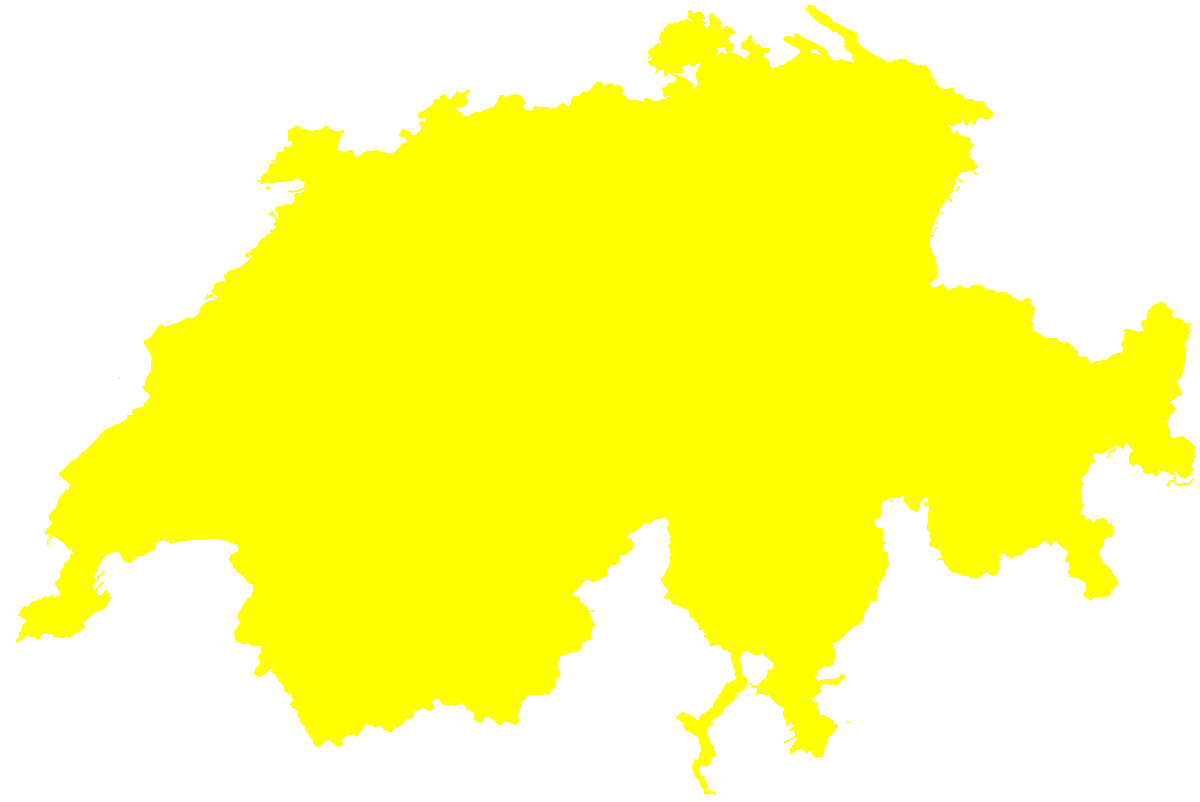
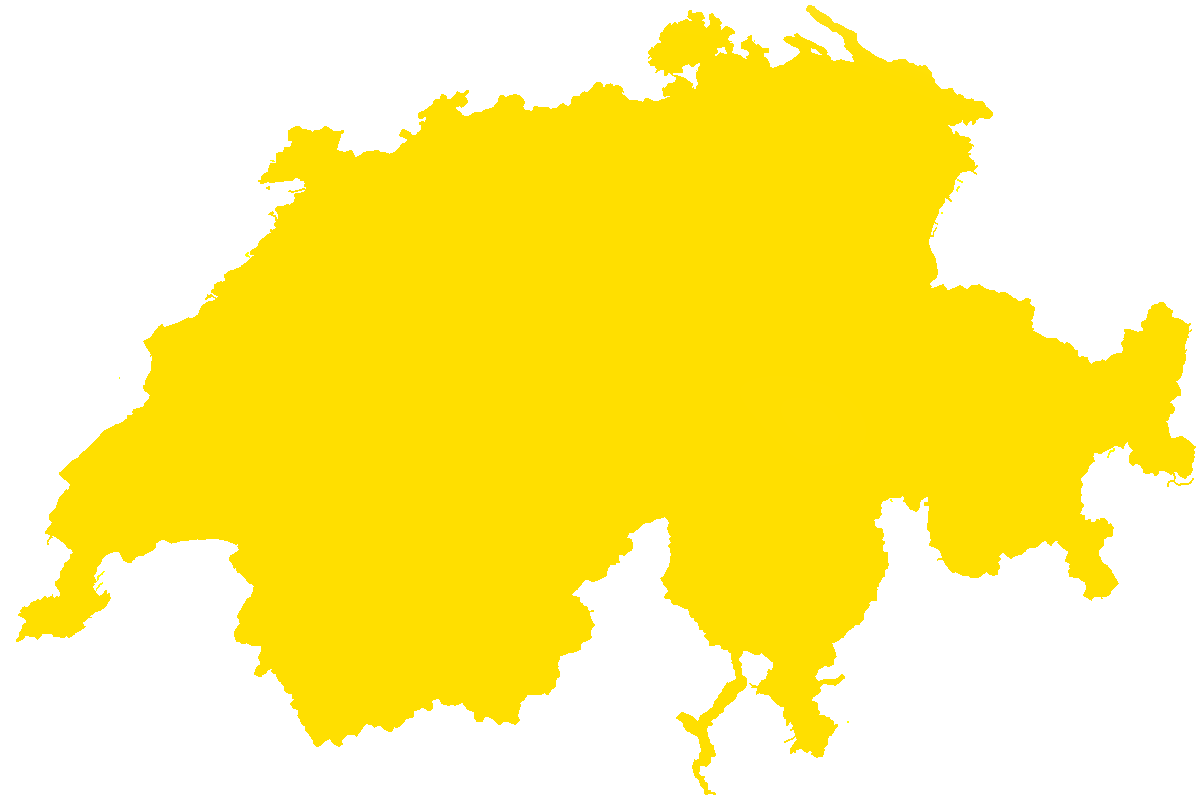
map temp scale

diff --git a/src/app/dashboard/map-temp-scale/map-temp-scale.component.scss b/src/app/dashboard/map-temp-scale/map-temp-scale.component.scss
@@ -1,0 +1,55 @@
+.map-scale-box {
+    margin-top: 20px;
+    width: 100%;
+    display: flex;
+    //border: 1px solid white;
+    display: flex;
+    flex-direction: column;
+
+    >.maps{
+        display: flex;
+        justify-content: space-between;
+
+        >.single-scale-item{
+
+            p{
+                width: 100%;
+                text-align: center;
+                margin: 0;
+                color: white;
+                font-size: 10px;
+            }
+
+            >.single-map {
+                position: relative; /* Dies stellt sicher, dass das top-layer-Bild korrekt über dem color-map-Bild positioniert wird */
+                width: auto;
+                height: 20px;
+                margin: 3%;
+
+                .color-map {
+                    height: 100%;
+                    width: auto;
+                }
+                
+                .top-layer {
+                    position: absolute; /* Das Bild wird absolut über dem color-map-Bild positioniert */
+                    top: 0; /* Stellt sicher, dass es am oberen Rand des Containers ausgerichtet ist */
+                    left: 0; /* Stellt sicher, dass es am linken Rand des Containers ausgerichtet ist */
+                    z-index: 3; /* Stellt sicher, dass das Bild über dem color-map-Bild liegt */
+                    height: 100%;
+                    width: auto;
+                }
+
+
+            }
+    
+            
+        }
+
+
+
+        }
+
+
+}
+

diff --git a/src/app/dashboard/dashboard.component.ts b/src/app/dashboard/dashboard.component.ts
@@ -19,11 +19,12 @@ import { DashboardToggleComponent } from './dashboard-toggle/dashboard-toggle.co
 import { DataToggleComponent } from "./data-toggle/data-toggle.component";
 import { BarchartComponent } from './barchart/barchart.component';
 import { YearTempChartComponent } from '../shared/year-temp-chart/year-temp-chart.component';
-  
+import { MapTempScaleComponent } from './map-temp-scale/map-temp-scale.component';
+
 @Component({
   selector: 'app-dashboard',
   standalone: true,
-  imports: [CommonModule, MapComponent, TableComponent, HighestRefListComponent, OnboardingComponent, DateboxComponent, DashboardToggleComponent, DataToggleComponent, BarchartComponent, YearTempChartComponent],
+  imports: [CommonModule, MapComponent, TableComponent, HighestRefListComponent, OnboardingComponent, DateboxComponent, DashboardToggleComponent, DataToggleComponent, BarchartComponent, YearTempChartComponent, MapTempScaleComponent],
   templateUrl: './dashboard.component.html',
   styleUrls: ['./dashboard.component.scss']
 })

diff --git a/src/app/dashboard/map/map.component.html b/src/app/dashboard/map/map.component.html
@@ -12,7 +12,7 @@
       <img src="./assets/img/maps/swissmap_cold.png" alt="Cold Map" class="map map-layer" #coldMap>
       <img src="./assets/img/maps/swissmap_cool.png" alt="Cool Map" class="map map-layer" #coolMap>
       <img src="./assets/img/maps/swissmap_warm.png" alt="Warm Map" class="map map-layer" #warmMap>
-      <img src="./assets/img/maps/swissmap_hot2.png" alt="Hot Map" class="map map-layer" #hotMap>
+      <img src="./assets/img/maps/swissmap_hot.png" alt="Hot Map" class="map map-layer" #hotMap>
       <img src="./assets/img/maps/swissmap_veryhot.png" alt="Very Hot Map" class="map map-layer" #veryHotMap>
       <img src="./assets/img/maps/swissmap_topLayer.png" alt="Base Map" class="top-layer">
       <img src="./assets/img/maps/swissmap_frame.png" alt="Base Map" class="frame-layer">

diff --git a/src/app/dashboard/map-temp-scale/map-temp-scale.component.spec.ts b/src/app/dashboard/map-temp-scale/map-temp-scale.component.spec.ts
@@ -1,0 +1,23 @@
+import { ComponentFixture, TestBed } from '@angular/core/testing';
+
+import { MapTempScaleComponent } from './map-temp-scale.component';
+
+describe('MapTempScaleComponent', () => {
+  let component: MapTempScaleComponent;
+  let fixture: ComponentFixture<MapTempScaleComponent>;
+
+  beforeEach(async () => {
+    await TestBed.configureTestingModule({
+      imports: [MapTempScaleComponent]
+    })
+    .compileComponents();
+    
+    fixture = TestBed.createComponent(MapTempScaleComponent);
+    component = fixture.componentInstance;
+    fixture.detectChanges();
+  });
+
+  it('should create', () => {
+    expect(component).toBeTruthy();
+  });
+});

diff --git a/src/app/dashboard/map-temp-scale/map-temp-scale.component.html b/src/app/dashboard/map-temp-scale/map-temp-scale.component.html
@@ -1,0 +1,20 @@
+<div class="map-scale-box">
+
+
+
+    <div class="maps">
+        @for (item of [['cold', '<0°'], ['cool', '-10°'],['warm','- 20°'], ['hot','- 30°'], ['veryhot','> 30°']]; track $index) {
+            <div class="single-scale-item">
+                <p>{{item[1]}}</p>
+                <div class="single-map">
+                    <img src="./assets/img/maps/swissmap_{{item[0]}}.png" class="color-map">
+                    <img src="./assets/img/maps/swissmap_topLayer.png" class="top-layer">
+                </div>
+            </div>
+    
+        }
+    </div>
+
+
+
+</div>

diff --git a/src/app/dashboard/dashboard.component.html b/src/app/dashboard/dashboard.component.html
@@ -21,10 +21,11 @@
 
             <app-datebox></app-datebox>
             
-            <app-onboarding></app-onboarding>
+            <!-- <app-onboarding></app-onboarding> -->
             
             <!-- <app-barchart></app-barchart> -->
             
+            <app-map-temp-scale></app-map-temp-scale>
         </div>
         
         
@@ -54,6 +55,7 @@
             <app-highest-ref-list style="width: 100%;"></app-highest-ref-list>
     
             <!-- <app-year-temp-chart></app-year-temp-chart> -->
+
         </div>
     </div>
 

diff --git a/src/app/dashboard/map-temp-scale/map-temp-scale.component.ts b/src/app/dashboard/map-temp-scale/map-temp-scale.component.ts
@@ -1,0 +1,12 @@
+import { Component } from '@angular/core';
+
+@Component({
+  selector: 'app-map-temp-scale',
+  standalone: true,
+  imports: [],
+  templateUrl: './map-temp-scale.component.html',
+  styleUrl: './map-temp-scale.component.scss'
+})
+export class MapTempScaleComponent {
+
+}
